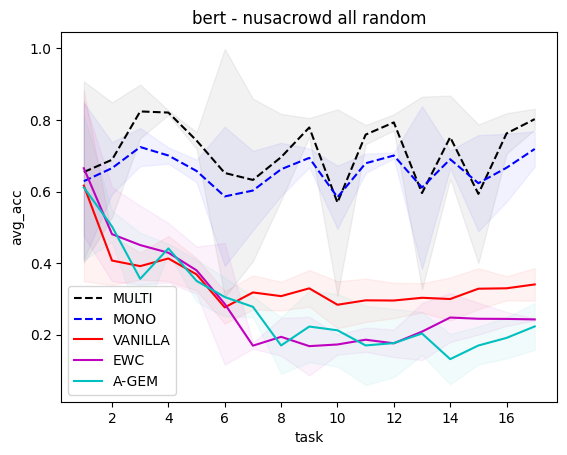
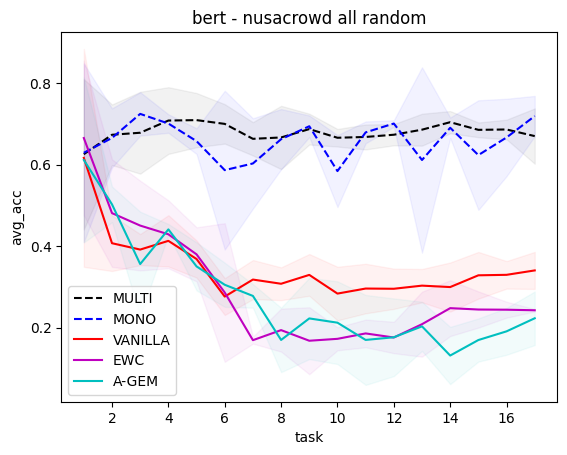
update MULTI viz

diff --git a/src/utils.py b/src/utils.py
@@ -808,13 +808,14 @@ def merge_viz(dir_name, list_exp_id, list_backbone, list_baseline, case_name, me
             output = get_output(backbone, baseline, exp_id)
     
         if baseline == "mtl":
-            df_mtl = pd.read_csv(get_filename(dir_name, exp_id, output, metrics.replace('avg_', '')), sep="\s+")
-            df[exp_id] = df_mtl.iloc[-1].to_list()
+            df_mtl = pd.read_csv(get_filename(dir_name, exp_id, output, metrics.replace('avg_', '')), sep="\s+", names=[i for i in range(17)])
+            # print(get_average(df_mtl))
+            df[exp_id] = get_average(df_mtl)
         elif baseline == "one":
             df_one = pd.read_csv(get_filename(dir_name, exp_id, output, metrics), sep="\s+", names=[i for i in range(17)])
-            print(exp_id, df_one)
+            # print(exp_id, df_one)
             df[exp_id] = df_one.iloc[0].values.tolist()
-            print(df_one.iloc[0].values.tolist())
+            # print(df_one.iloc[0].values.tolist())
         else:
             df[exp_id] = pd.read_csv(get_filename(dir_name, exp_id, output, metrics), sep="\s+", names=[exp_id])
         
